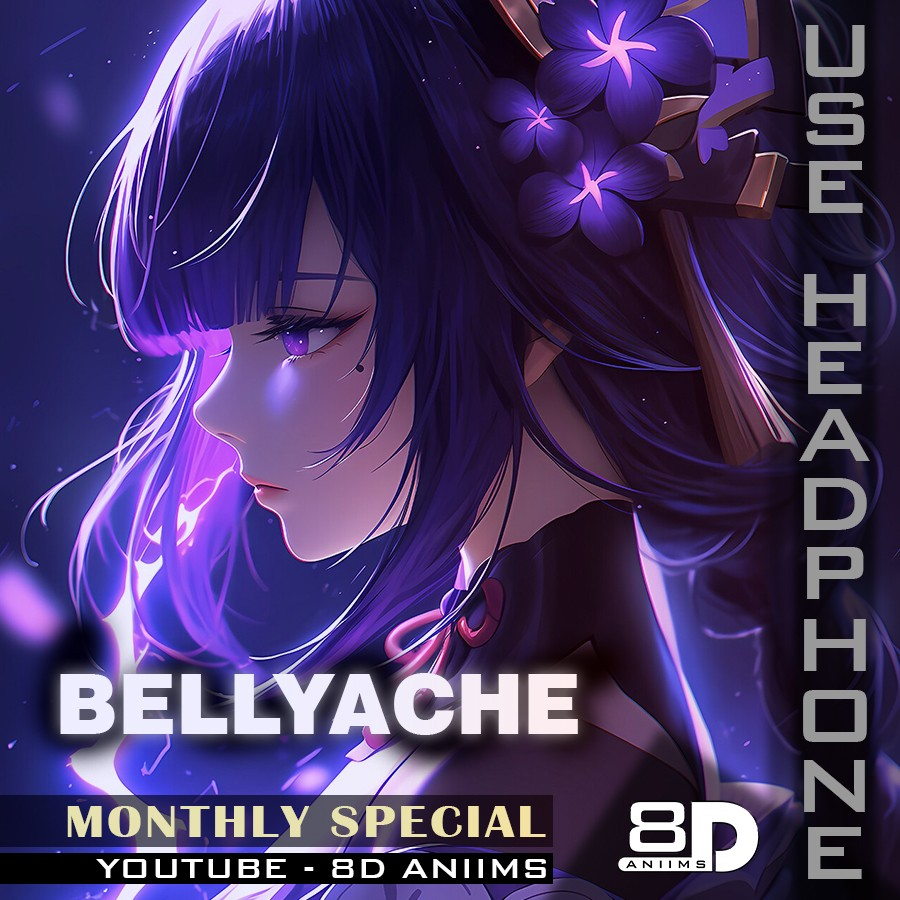
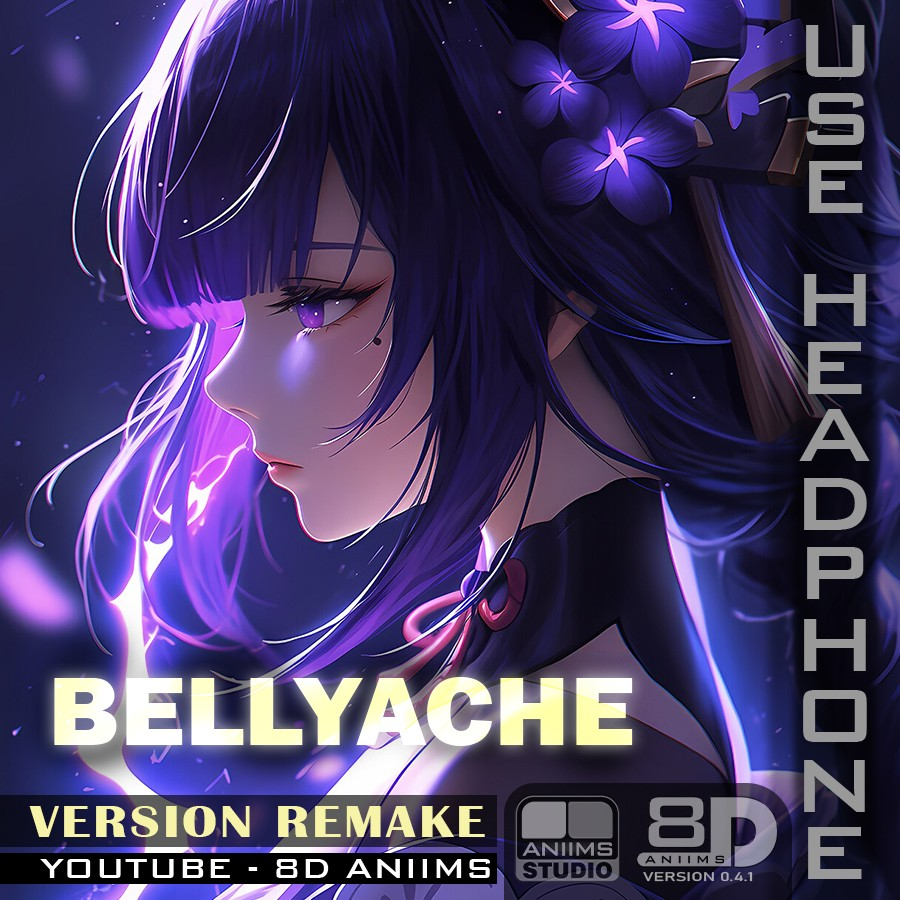
update 62
Album released

diff --git a/author_1 page.html b/author_1 page.html
@@ -127,6 +127,49 @@ https://templatemo.com/tm-577-liberty-market
                 <span class="author">
                   <img src="assets/images/author.jpg" alt="" style="max-width: 50px; border-radius: 50%;">
                 </span>
+                <img src="assets/images/poto-122.jpg" alt="" style="border-radius: 20px;">
+                <h4>MONTHLY SPECIAL</h4>
+              </div>
+              <div class="col-lg-12">
+                <div class="line-dec"></div>
+                <div class="row">
+                  <div class="col-6">
+                    <span>Frequency: <br> <strong>44100 Hz</strong></span>
+                  </div>
+                  <div class="col-6">
+                    <span>Bitrate: <br> <strong>192 kbit/s</strong></span><br><br>
+                  </div>
+          <div class="col-6">
+                    <span>Album size: <br> <strong>3.77 MB</strong></span>
+                  </div>
+                  <div class="col-6">
+                    <span>files: <br> <strong>02</strong></span><br><br>
+                  </div>
+                  <div class="col-6">
+                    <span>8D Version: <br> <strong>0.3</strong></span><br><br>
+                  </div>
+                </div>
+              </div>
+        <form>
+<font face="arial" color="white">
+<input type="radio" name="like"> Like<br>
+  <input type="radio" name="like"> Unlike<br><br></font>
+</form>
+              <div class="col-lg-12">
+                <div class="main-button">
+                  <a href="https://1drv.ms/f/s!Au7SSTfWQxkVg2zuVTge1pChIgh9?e=9kHhFn">Download This Album</a>
+                </div>
+              </div>
+            </div>
+          </div>
+          </div>
+          <div class="col-lg-3 col-md-6">
+          <div class="item">
+            <div class="row">
+              <div class="col-lg-12">
+                <span class="author">
+                  <img src="assets/images/author.jpg" alt="" style="max-width: 50px; border-radius: 50%;">
+                </span>
                 <img src="assets/images/poto-121.jpg" alt="" style="border-radius: 20px;">
                 <h4>MONTHLY SPECIAL</h4>
               </div>
@@ -2093,7 +2136,8 @@ https://templatemo.com/tm-577-liberty-market
               </div>
             </div>
           </div>
-        </div><div class="col-lg-3 col-md-6">
+        </div>
+        <div class="col-lg-3 col-md-6">
           <div class="item">
             <div class="row">
               <div class="col-lg-12">
@@ -2131,48 +2175,6 @@ https://templatemo.com/tm-577-liberty-market
               <div class="col-lg-12">
                 <div class="main-button">
                   <a href="https://1drv.ms/f/s!Agt2OPWimw7Yh31TC9nZD8RiDel7?e=z6FoDW">Download This Album</a>
-                </div>
-              </div>
-            </div>
-          </div>
-        </div><div class="col-lg-3 col-md-6">
-          <div class="item">
-            <div class="row">
-              <div class="col-lg-12">
-                <span class="author">
-                  <img src="assets/images/author.jpg" alt="" style="max-width: 50px; border-radius: 50%;">
-                </span>
-                <img src="assets/images/poto-73.jpg" alt="" style="border-radius: 20px;">
-                <h4>Album no - 55</h4>
-              </div>
-              <div class="col-lg-12">
-                <div class="line-dec"></div>
-                <div class="row">
-                  <div class="col-6">
-                    <span>Frequency: <br> <strong>44100 Hz</strong></span>
-                  </div>
-                  <div class="col-6">
-                    <span>Bitrate: <br> <strong>192 kbit/s</strong></span><br><br>
-                  </div>
-          <div class="col-6">
-                    <span>Album size: <br> <strong>48.1 MB</strong></span>
-                  </div>
-                  <div class="col-6">
-                    <span>files: <br> <strong>11</strong></span><br><br>
-                  </div>
-                  <div class="col-6">
-                    <span>8D Version: <br> <strong>0.3</strong></span><br><br>
-                  </div>
-                </div>
-              </div>
-        <form>
-<font face="arial" color="white">
-<input type="radio" name="like"> Like<br>
-  <input type="radio" name="like"> Unlike<br><br></font>
-</form>
-              <div class="col-lg-12">
-                <div class="main-button">
-                  <a href="https://1drv.ms/f/s!Agt2OPWimw7Yh3wU_hajm8TXjaVV?e=NRiUtU">Download This Album</a>
                 </div>
               </div>
             </div>

diff --git a/author.html b/author.html
@@ -127,6 +127,49 @@ https://templatemo.com/tm-577-liberty-market
                 <span class="author">
                   <img src="assets/images/author.jpg" alt="" style="max-width: 50px; border-radius: 50%;">
                 </span>
+                <img src="assets/images/poto-110.jpg" alt="" style="border-radius: 20px;">
+                <h4>VERSION REMAKE</h4>
+              </div>
+              <div class="col-lg-12">
+                <div class="line-dec"></div>
+                <div class="row">
+                  <div class="col-6">
+                    <span>Frequency: <br> <strong>44100 Hz</strong></span>
+                  </div>
+                  <div class="col-6">
+                    <span>Bitrate: <br> <strong>192 kbit/s</strong></span><br><br>
+                  </div>
+          <div class="col-6">
+                    <span>Album size: <br> <strong>3.81 MB</strong></span>
+                  </div>
+                  <div class="col-6">
+                    <span>files: <br> <strong>02</strong></span><br><br>
+                  </div>
+                  <div class="col-6">
+                    <span>8D Version: <br> <strong>0.4.1</strong></span><br><br>
+                  </div>
+                </div>
+              </div>
+        <form>
+<font face="arial" color="white">
+<input type="radio" name="like"> Like<br>
+  <input type="radio" name="like"> Unlike<br><br></font>
+</form>
+              <div class="col-lg-12">
+                <div class="main-button">
+                  <a href="https://1drv.ms/f/c/151943d63749d2ee/Eu7SSTfWQxkggBUuAgAAAAABLe-E5whk18GEjtOx53Lmdg?e=UsbJIO">Download This Album</a>
+                </div>
+              </div>
+            </div>
+          </div>
+          </div>
+        <div class="col-lg-3 col-md-6">
+          <div class="item">
+            <div class="row">
+              <div class="col-lg-12">
+                <span class="author">
+                  <img src="assets/images/author.jpg" alt="" style="max-width: 50px; border-radius: 50%;">
+                </span>
                 <img src="assets/images/poto-168.jpg" alt="" style="border-radius: 20px;">
                 <h4>MONTHLY SPECIAL</h4>
               </div>
@@ -2136,49 +2179,6 @@ https://templatemo.com/tm-577-liberty-market
               <div class="col-lg-12">
                 <div class="main-button">
                   <a href="https://1drv.ms/f/s!Au7SSTfWQxkVg20xpugM8kdebm9x?e=gB75pL">Download This Album</a>
-                </div>
-              </div>
-            </div>
-          </div>
-          </div>
-          <div class="col-lg-3 col-md-6">
-          <div class="item">
-            <div class="row">
-              <div class="col-lg-12">
-                <span class="author">
-                  <img src="assets/images/author.jpg" alt="" style="max-width: 50px; border-radius: 50%;">
-                </span>
-                <img src="assets/images/poto-122.jpg" alt="" style="border-radius: 20px;">
-                <h4>MONTHLY SPECIAL</h4>
-              </div>
-              <div class="col-lg-12">
-                <div class="line-dec"></div>
-                <div class="row">
-                  <div class="col-6">
-                    <span>Frequency: <br> <strong>44100 Hz</strong></span>
-                  </div>
-                  <div class="col-6">
-                    <span>Bitrate: <br> <strong>192 kbit/s</strong></span><br><br>
-                  </div>
-          <div class="col-6">
-                    <span>Album size: <br> <strong>3.77 MB</strong></span>
-                  </div>
-                  <div class="col-6">
-                    <span>files: <br> <strong>02</strong></span><br><br>
-                  </div>
-                  <div class="col-6">
-                    <span>8D Version: <br> <strong>0.3</strong></span><br><br>
-                  </div>
-                </div>
-              </div>
-        <form>
-<font face="arial" color="white">
-<input type="radio" name="like"> Like<br>
-  <input type="radio" name="like"> Unlike<br><br></font>
-</form>
-              <div class="col-lg-12">
-                <div class="main-button">
-                  <a href="https://1drv.ms/f/s!Au7SSTfWQxkVg2zuVTge1pChIgh9?e=9kHhFn">Download This Album</a>
                 </div>
               </div>
             </div>

diff --git a/author_2 page.html b/author_2 page.html
@@ -127,6 +127,49 @@ https://templatemo.com/tm-577-liberty-market
                 <span class="author">
                   <img src="assets/images/author.jpg" alt="" style="max-width: 50px; border-radius: 50%;">
                 </span>
+                <img src="assets/images/poto-73.jpg" alt="" style="border-radius: 20px;">
+                <h4>Album no - 55</h4>
+              </div>
+              <div class="col-lg-12">
+                <div class="line-dec"></div>
+                <div class="row">
+                  <div class="col-6">
+                    <span>Frequency: <br> <strong>44100 Hz</strong></span>
+                  </div>
+                  <div class="col-6">
+                    <span>Bitrate: <br> <strong>192 kbit/s</strong></span><br><br>
+                  </div>
+          <div class="col-6">
+                    <span>Album size: <br> <strong>48.1 MB</strong></span>
+                  </div>
+                  <div class="col-6">
+                    <span>files: <br> <strong>11</strong></span><br><br>
+                  </div>
+                  <div class="col-6">
+                    <span>8D Version: <br> <strong>0.3</strong></span><br><br>
+                  </div>
+                </div>
+              </div>
+        <form>
+<font face="arial" color="white">
+<input type="radio" name="like"> Like<br>
+  <input type="radio" name="like"> Unlike<br><br></font>
+</form>
+              <div class="col-lg-12">
+                <div class="main-button">
+                  <a href="https://1drv.ms/f/s!Agt2OPWimw7Yh3wU_hajm8TXjaVV?e=NRiUtU">Download This Album</a>
+                </div>
+              </div>
+            </div>
+          </div>
+        </div>
+      <div class="col-lg-3 col-md-6">
+          <div class="item">
+            <div class="row">
+              <div class="col-lg-12">
+                <span class="author">
+                  <img src="assets/images/author.jpg" alt="" style="max-width: 50px; border-radius: 50%;">
+                </span>
                 <img src="assets/images/poto-72.jpg" alt="" style="border-radius: 20px;">
                 <h4>Album no - 54</h4>
               </div>
@@ -932,49 +975,6 @@ https://templatemo.com/tm-577-liberty-market
               <div class="col-lg-12">
                 <div class="main-button">
                   <a href="https://1drv.ms/f/s!Au7SSTfWQxkVhBempVvChuDnsiYZ?e=lyLZey">Download This Album</a>
-                </div>
-              </div>
-            </div>
-          </div>
-        </div>
-      <div class="col-lg-3 col-md-6">
-          <div class="item">
-            <div class="row">
-              <div class="col-lg-12">
-                <span class="author">
-                  <img src="assets/images/author.jpg" alt="" style="max-width: 50px; border-radius: 50%;">
-                </span>
-                <img src="assets/images/poto-53.jpg" alt="" style="border-radius: 20px;">
-                <h4>MONTHLY SPECIAL</h4>
-              </div>
-              <div class="col-lg-12">
-                <div class="line-dec"></div>
-                <div class="row">
-                  <div class="col-6">
-                    <span>Frequency: <br> <strong>44100 Hz</strong></span>
-                  </div>
-                  <div class="col-6">
-                    <span>Bitrate: <br> <strong>192 kbit/s</strong></span><br><br>
-                  </div>
-          <div class="col-6">
-                    <span>Album size: <br> <strong>3.77 MB</strong></span>
-                  </div>
-                  <div class="col-6">
-                    <span>files: <br> <strong>02</strong></span><br><br>
-                  </div>
-                  <div class="col-6">
-                    <span>8D Version: <br> <strong>0.3</strong></span><br><br>
-                  </div>
-                </div>
-              </div>
-        <form>
-<font face="arial" color="white">
-<input type="radio" name="like"> Like<br>
-  <input type="radio" name="like"> Unlike<br><br></font>
-</form>
-              <div class="col-lg-12">
-                <div class="main-button">
-                  <a href="https://1drv.ms/f/s!Au7SSTfWQxkVg1lFp4573AUGstKm?e=1KQkiP">Download This Album</a>
                 </div>
               </div>
             </div>

diff --git a/index.html b/index.html
@@ -101,6 +101,9 @@ songs will be in 8D audio, slowed, reverb or normal.</p>
         <div class="col-lg-5 offset-lg-1">
           <div class="owl-banner owl-carousel">
             <div class="item">
+              <img src="assets/images/poto-110.jpg" alt="">
+            </div>
+            <div class="item">
               <img src="assets/images/poto-168.jpg" alt="">
             </div>
             <div class="item">
@@ -127,9 +130,6 @@ songs will be in 8D audio, slowed, reverb or normal.</p>
             <div class="item">
               <img src="assets/images/poto-161.jpg" alt="">
             </div>
-            <div class="item">
-              <img src="assets/images/poto-160.jpg" alt="">
-            </div>
           </div>
         </div>
       </div>
@@ -147,7 +147,7 @@ songs will be in 8D audio, slowed, reverb or normal.</p>
             <h2>COMING SOON!</h2>
             <h6>WITH 0.4.1 8D VERSION...</h6>
             <font color="#FF957E" size="4">☠ WARNING!.. use "<u>headphone</u> 🎧" or "<u>handfree</u> 🎧".</font>
-            <p>⦿ All The Way Up (Edgar Willow, Peter Piffen Cover) [8D ANIIMS].</p>
+            <p>⦿ Bellyache (Dream Chaos, Veronica Bravo  Cover) [8D ANIIMS].</p>
             <div class="buttons">
               <div class="main-button">
                 <a href="author.html" target="_blank">Download our all 8D Audios</a>
@@ -159,7 +159,7 @@ songs will be in 8D audio, slowed, reverb or normal.</p>
         <div class="col-lg-5 offset-lg-1">
           <div class="owl-banner owl-carousel">
             <div class="item">
-              <img src="assets/images/poto-110.jpg" alt="">
+              <img src="assets/images/poto-53.jpg" alt="">
             </div>
           </div>
         </div>
@@ -207,7 +207,7 @@ songs will be in 8D audio, slowed, reverb or normal.</p>
           <div class="header-text">
             <h6>VISUAL ANIIMS,</h6>
             <h2>Free 4k Wallpapers Download for phone</h2>
-            <h6>1000+ Wallpapers...</h6>
+            <h6>1300+ Wallpapers...</h6>
             <font color="#FF957E" size="4">⦿ Modern 3D derector / 3d modeling developer / Creature Artist / Graphics designer.</font>
             <p></p>
             <div class="buttons">
